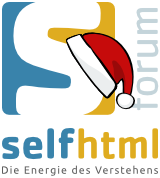
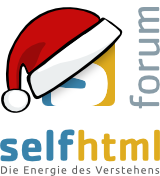
ref: christmas decoration

diff --git a/app/assets/stylesheets/header.css.scss b/app/assets/stylesheets/header.css.scss
@@ -1,48 +1,55 @@
 /* -*- coding: utf-8 -*- */
 
-
 /* upper navigation */
 .top {
-  background-color: #699CB3;
-  background-image: linear-gradient(to right, #75b0ca 0%,#4089aa 100%);
-  border-bottom: 3px double #FFFFFF;
-  border-top: 1px solid #0070A2;
+  background-color: #699cb3;
+  background-image: linear-gradient(to right, #75b0ca 0%, #4089aa 100%);
+  border-bottom: 3px double #ffffff;
+  border-top: 1px solid #0070a2;
   min-height: 2.25em;
   font-size: 1em;
   line-height: 2.25em;
   position: relative;
 
   .selflinks {
-    margin: 0 0 0 .5em;
+    margin: 0 0 0 0.5em;
     padding: 0;
 
     li {
       display: inline;
       margin-right: 1.5em;
 
-      a { display: inline-block; }
-      a:link, a:visited { color: #e6f2f7; }
-      a:hover, a:focus { color: white; }
+      a {
+        display: inline-block;
+      }
+      a:link,
+      a:visited {
+        color: #e6f2f7;
+      }
+      a:hover,
+      a:focus {
+        color: white;
+      }
     }
   }
 }
 
 .personallinks {
   list-style-type: none;
-  padding:0;
-  margin: .5em;
+  padding: 0;
+  margin: 0.5em;
 
   li {
     display: block;
     margin: 0 0 1em 0;
-    line-height:1em;
+    line-height: 1em;
     white-space: nowrap;
   }
   a:visited {
     color: #3481cd;
   }
   img {
-      margin-right: .2em;
+    margin-right: 0.2em;
   }
   #user-not-signed-in {
     color: #999;
@@ -51,49 +58,56 @@
 
 .flex-item.logo {
   h1 {
-    position:relative;
-    margin:0;
+    position: relative;
+    margin: 0;
     span {
       display: none;
     }
-    background:url(asset-path('selfhtml-forum-small.svg')) no-repeat center center;
-    background-size:contain;
-    width:100%;
-    height:96px;
-    margin-bottom:.3em;
+    background: url(asset-path("selfhtml-forum-small-weihnachtsmuetze.png")) no-repeat center center;
+    background-size: contain;
+    width: 100%;
+    height: 96px;
+    margin-bottom: 0.3em;
   }
 
   a.home {
-    position:absolute;
-    top:0;
-    bottom:0;
-    right:0;
-    left:0;
-    display:block;
+    position: absolute;
+    top: 0;
+    bottom: 0;
+    right: 0;
+    left: 0;
+    display: block;
   }
 
-  .rss, .atom, .donate { display:none; }
+  .rss,
+  .atom,
+  .donate {
+    display: none;
+  }
 }
 
 aside {
-  border-top: 2px solid #C4D4DA;
-  margin:1em 0em;
-  text-align:center;
+  border-top: 2px solid #c4d4da;
+  margin: 1em 0em;
+  text-align: center;
 
-  .aktuelle-mitteilung { text-align:left; }
+  .aktuelle-mitteilung {
+    text-align: left;
+  }
 }
 
-.aktuelle-mitteilung, nav.quicklinks {
-  vertical-align:top;
-  display:inline-block;
-  max-width:500px;
+.aktuelle-mitteilung,
+nav.quicklinks {
+  vertical-align: top;
+  display: inline-block;
+  max-width: 500px;
   font-size: 1em;
-  background: none repeat scroll 0% 0% #F1F3F4;
+  background: none repeat scroll 0% 0% #f1f3f4;
   padding: 0.6em 0.5em 0.6em 0.7em;
   line-height: 1.2;
   margin-bottom: 0;
   border-radius: 0px 0.5em 0.5em;
-  border: 1px solid #D5D5D5;
+  border: 1px solid #d5d5d5;
 }
 
 .aktuelle-mitteilung img {
@@ -103,32 +117,35 @@ aside {
 
 div.aktuelle-mitteilung {
   & > p {
-    margin-top:0;
-    margin-bottom:0;
+    margin-top: 0;
+    margin-bottom: 0;
   }
 
-  margin-top:1em;
+  margin-top: 1em;
 }
 .aktuelle-mitteilung.img {
   min-height: 2.4em;
 }
 
 .aktuelle-mitteilung {
-  h3, h4, h5, h6 {
-    margin-top:0;
-    font-weight:bold;
+  h3,
+  h4,
+  h5,
+  h6 {
+    margin-top: 0;
+    font-weight: bold;
   }
 
   h3 {
     font-size: 1.3em;
-    color:#699CB3;
+    color: #699cb3;
   }
 }
 
 nav {
   ul {
-    margin-left:0;
-    padding:0;
+    margin-left: 0;
+    padding: 0;
 
     li {
       display: inline-block;
@@ -136,18 +153,21 @@ nav {
       font-weight: normal;
       //background-color: #F1F3F4;
       border-radius: 0px 0.4em 0.4em;
-      border:1px solid #D5D5D5;
-      padding:0;
-      margin-top:0.3em;
+      border: 1px solid #d5d5d5;
+      padding: 0;
+      margin-top: 0.3em;
     }
 
-    a:link, a:visited {
+    a:link,
+    a:visited {
       color: #3481cd;
       line-height: 1.6;
       padding: 0.4em 0.6em;
       display: block;
 
-      &:hover, &:active, &:focus {
+      &:hover,
+      &:active,
+      &:focus {
         color: #990909;
       }
     }
@@ -157,50 +177,58 @@ nav {
 nav.quicklinks {
   max-width: none;
   display: block;
-  padding:0 .25em .25em .5em;
+  padding: 0 0.25em 0.25em 0.5em;
   margin: 0 1em 0.8em 0;
 
   li {
     display: block;
     border: none;
-    padding:.3em 0;
+    padding: 0.3em 0;
     font-size: 1em;
   }
 
-  a, a:link {
+  a,
+  a:link {
     display: block;
-    padding:0;
+    padding: 0;
   }
 
-  li.cites a { display:inline; }
+  li.cites a {
+    display: inline;
+  }
   a.stats {
-    display:none;
-    padding-left: .2em;
+    display: none;
+    padding-left: 0.2em;
   }
 
   .search {
-    ::input-placeholder { color: white; }
+    ::input-placeholder {
+      color: white;
+    }
 
-    input[type=search] {
+    input[type="search"] {
       border-radius: 0px 0.5em 0.5em;
-      border: 1px solid #D5D5D5;
-      padding: .2em .5em;
+      border: 1px solid #d5d5d5;
+      padding: 0.2em 0.5em;
     }
   }
 }
 
-
 @media only screen and (min-width: 35em) {
-  nav ul {  margin: 0 0 1em; }
+  nav ul {
+    margin: 0 0 1em;
+  }
 
   .top {
     font-size: 1.25em;
 
-    .selflinks { margin-left: 1.75em; }
+    .selflinks {
+      margin-left: 1.75em;
+    }
   }
 
   .personallinks.flex-item {
-    margin: .1em 2em;
+    margin: 0.1em 2em;
 
     li {
       display: inline;
@@ -211,7 +239,9 @@ nav.quicklinks {
       margin-right: 0;
     }
 
-    a { display:inline; }
+    a {
+      display: inline;
+    }
   }
 
   a:link,
@@ -230,45 +260,50 @@ nav.quicklinks {
   }
 
   .logo.flex-item {
-    margin-bottom:1em;
+    margin-bottom: 1em;
 
     h1 {
-      background:url(asset-path('selfhtml-forum.svg')) no-repeat center center;
-      background-size:contain;
-      width:160px;
-      height:178px;
-      margin-bottom: .3em;
+      background: url(asset-path("selfhtml-forum-weihnachtsmuetze.png")) no-repeat center center;
+      background-size: contain;
+      width: 160px;
+      height: 178px;
+      margin-bottom: 0.3em;
     }
 
-    .rss, .atom, .donate {
-      display:inline;
+    .rss,
+    .atom,
+    .donate {
+      display: inline;
     }
   }
 
   nav.quicklinks {
-    ul { display: inline; }
+    ul {
+      display: inline;
+    }
     li {
       display: inline-block;
       margin-right: 1em;
 
-      a, a:link, a:visited { display:inline; }
+      a,
+      a:link,
+      a:visited {
+        display: inline;
+      }
     }
   }
 }
 
-
 @media only screen and (min-width: 55em) {
   .personallinks {
-    text-align:right;
+    text-align: right;
   }
 
   nav.quicklinks {
     .search {
-      float:right;
+      float: right;
     }
   }
 }
-
-
 
 /* eof */
